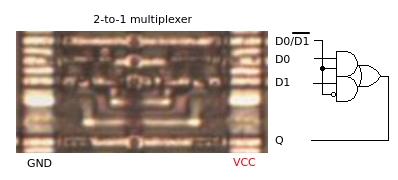
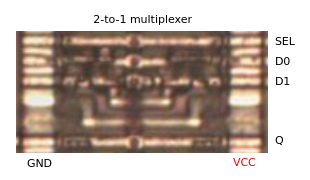
Add CMOS circuit for MUX and MUXI

diff --git a/doc/dmg_cells.html b/doc/dmg_cells.html
@@ -2804,18 +2804,20 @@ all documented once and for all, to make life easier!</p>
 <h3 id="muxi">MUXI</h3>
 <p>Inverting multiplexer with two inputs.</p>
 <table>
-<tr><td><img src="img/cells/petu_desc.png" style="min-width:350px;" alt=""></td>
+<tr><td><img src="img/cells/petu_desc.png" style="min-width:300px;" alt=""></td>
 <td><table class="default">
 <tr><th>I/O</th><th>Description</th></tr>
 <tr><td><i>D0</i>, <i>D1</i></td>
 <td>Data inputs.</td></tr>
-<tr><td><i>D0/<span style="text-decoration:overline">D1</span></i></td>
+<tr><td><i>SEL</i></td>
 <td>Select input.</td></tr>
 <tr><td><i>Q</i></td>
-<td>Outputs inverted <i>D0</i> if <i>D0/<span style="text-decoration:overline">D1</span></i> is high; outputs
-inverted <i>D1</i> if <i>D0/<span style="text-decoration:overline">D1</span></i> is low.</td></tr>
+<td>Outputs inverted <i>D0</i> if <i>SEL</i> is high; outputs
+inverted <i>D1</i> if <i>SEL</i> is low.</td></tr>
 </table></td></tr>
 </table>
+<p><img src="img/cells/muxi_layout.png" alt=""></p>
+<p><img src="img/cells/muxi_cmos.png" alt=""></p>
 <p>Instances:
 <a href="/dmg_cpu_b_map/?view=cave">CAVE</a>
 <a href="/dmg_cpu_b_map/?view=copo">COPO</a>
@@ -2841,18 +2843,19 @@ inverted <i>D1</i> if <i>D0/<span style="text-decoration:overline">D1</span></i>
 <h3 id="mux">MUX</h3>
 <p>Multiplexer with two inputs.</p>
 <table>
-<tr><td><img src="img/cells/atur_desc.png" style="min-width:350px;" alt=""></td>
+<tr><td><img src="img/cells/atur_desc.png" style="min-width:300px;" alt=""></td>
 <td><table class="default">
 <tr><th>I/O</th><th>Description</th></tr>
 <tr><td><i>D0</i>, <i>D1</i></td>
 <td>Data inputs.</td></tr>
-<tr><td><i>D0/<span style="text-decoration:overline">D1</span></i></td>
+<tr><td><i>SEL</i></td>
 <td>Select input.</td></tr>
 <tr><td><i>Q</i></td>
-<td>Outputs <i>D0</i> if <i>D0/<span style="text-decoration:overline">D1</span></i> is high; outputs <i>D1</i>
-if <i>D0/<span style="text-decoration:overline">D1</span></i> is low.</td></tr>
+<td>Outputs <i>D0</i> if <i>SEL</i> is high; outputs <i>D1</i>
+if <i>SEL</i> is low.</td></tr>
 </table></td></tr>
 </table>
+<p><img src="img/cells/mux_cmos.png" alt=""></p>
 <p>Instances:
 <a href="/dmg_cpu_b_map/?view=afum">AFUM</a>
 <a href="/dmg_cpu_b_map/?view=agyl">AGYL</a>
